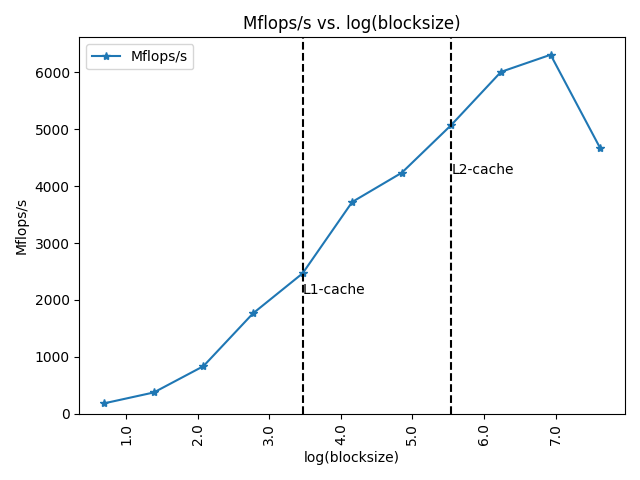
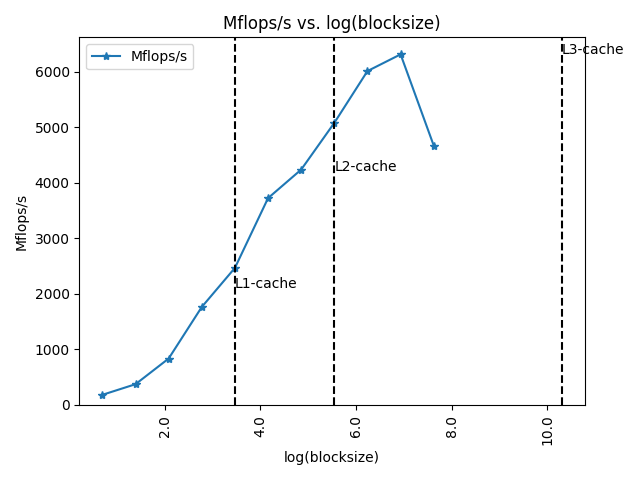
small change

diff --git a/assignment1/matmult.c b/assignment1/matmult.c
@@ -169,11 +169,21 @@ void matmult_blk(int M, int N, int K, double **A, double **B, double **C, int bs
         }
     }
 
-/* Below implementation requires that the matrices are of NxN*/
+    /* Below implementation requires that the matrices are of NxN*/
+
+    // A (M X K)
+    // B (K X N)
+    // C (M X N)
+
+    // row block (A)
     for(kk=0;kk<N;kk+=bs){
+
         for(nn=0;nn<K;nn+=bs){
+        
             for(m=0;m<N;m++){
+        
                 for(k=nn;k<nn+bs;k++){
+        
                     for(n=kk;n<kk+bs;n++){
                         C[m][n]+=A[m][k]*B[k][n];
                     }

diff --git a/assignment1/run_data/plot_block.py b/assignment1/run_data/plot_block.py
@@ -25,6 +25,10 @@ ax.text(x=np.log(32), y=max(data["Mflop/s"]) * (1/3), s="L1-cache", c="black")
 ax.axvline(x=np.log(256), ymin=0, ymax=1, color = 'black', linestyle="--")
 ax.text(x=np.log(256), y=max(data["Mflop/s"]) * (2/3), s="L2-cache")
 
+ax.axvline(x=np.log(30000), ymin=0, ymax=1, color = 'black', linestyle="--")
+ax.text(x=np.log(30000), y=max(data["Mflop/s"]), s="L3-cache")
+    
+
 ax.set_xlabel("log(blocksize)")
 ax.set_ylabel("Mflops/s")
 ax.set_ylim(0, None)
